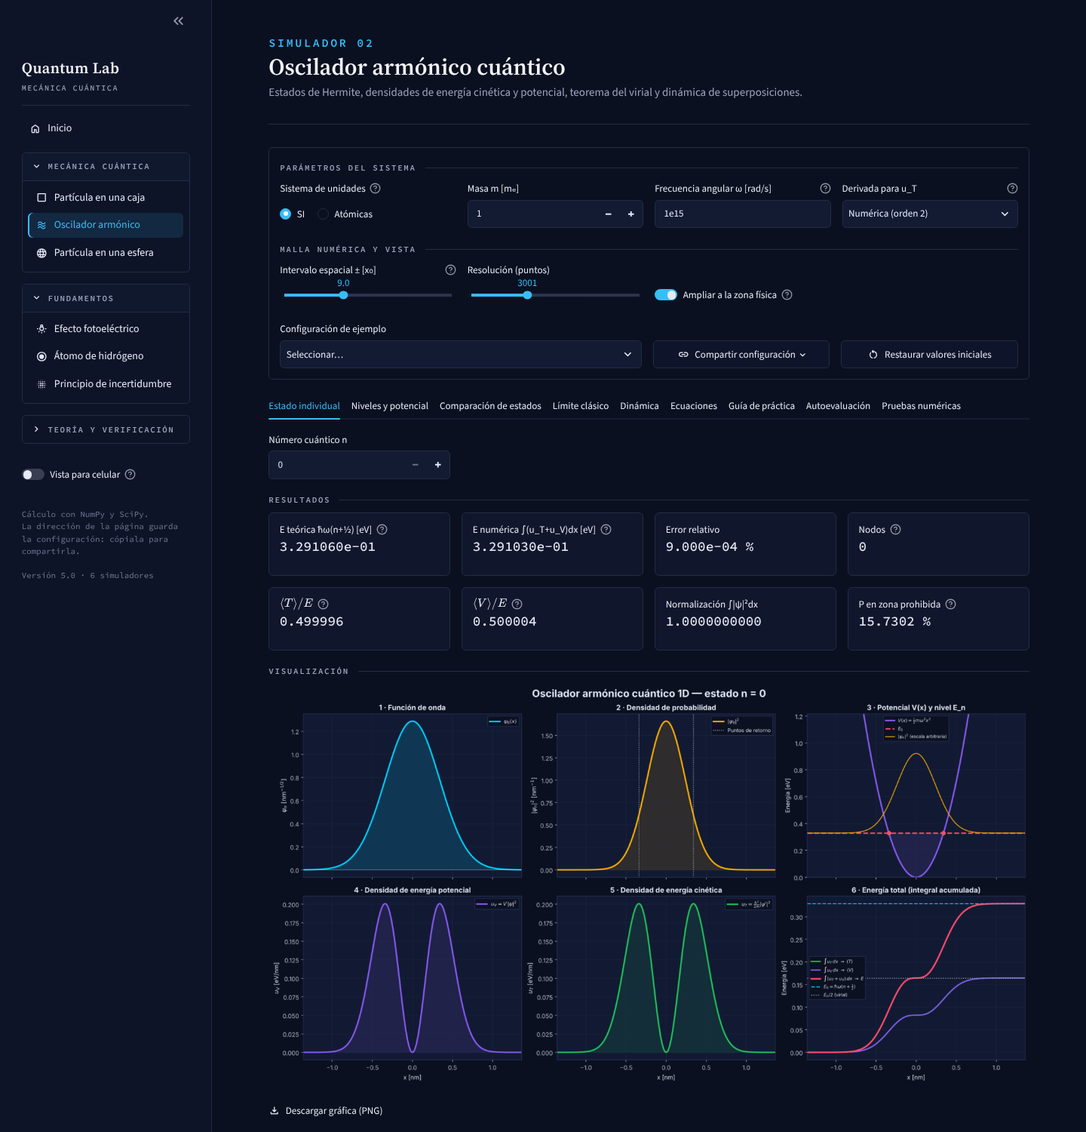
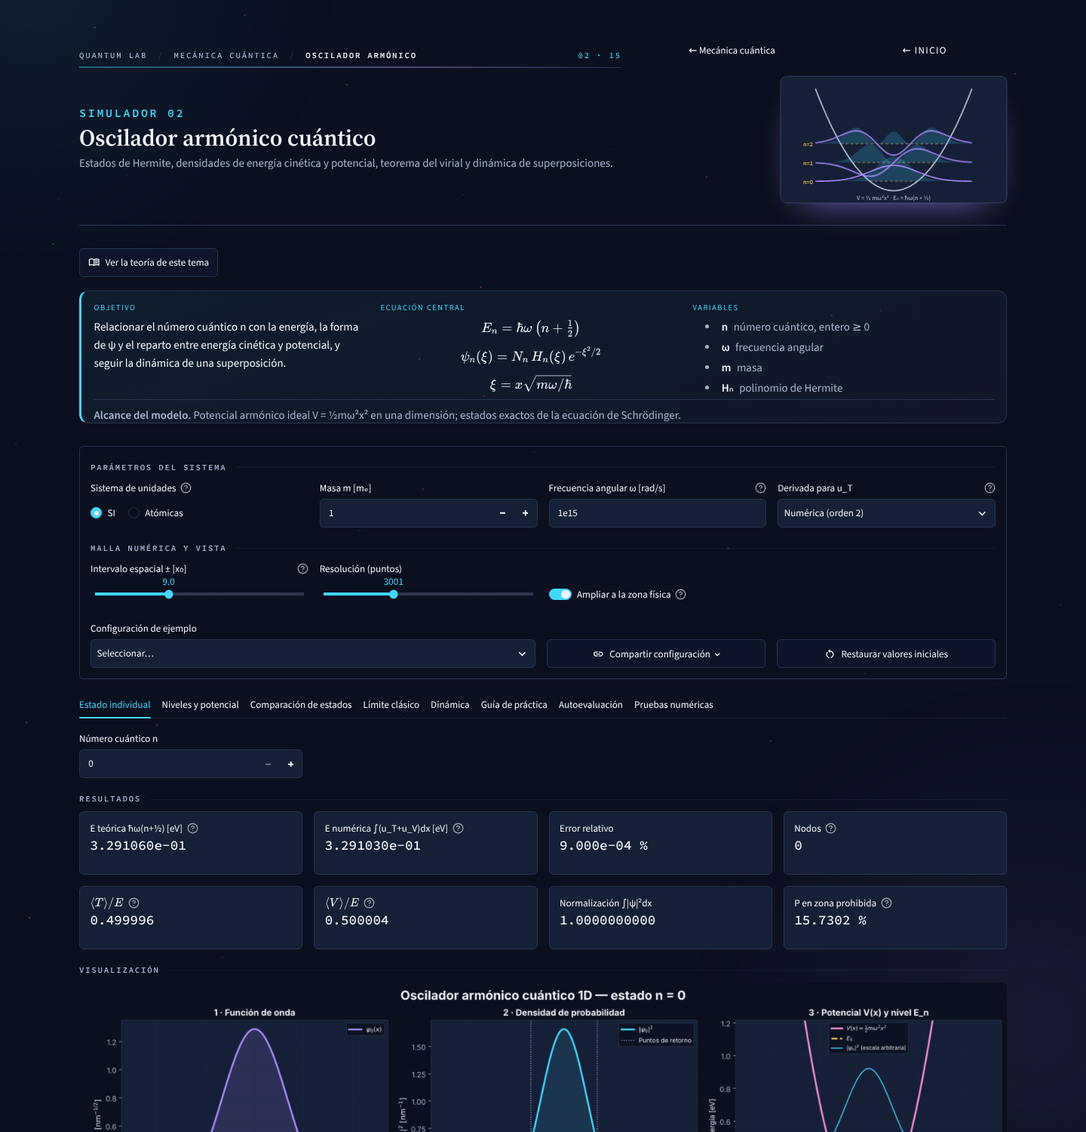
Actualizar README, capturas, versión 6.0 y celda de Colab de la superposición
Claude-Session: https://claude.ai/code/session_01HhUTuENr9p5TmrEmXaoA3r

diff --git a/colab/celda_superposicion_oscilador.py b/colab/celda_superposicion_oscilador.py
@@ -1,0 +1,160 @@
+#@title Oscilador armónico 1D: animación de la superposición de estados vibracionales { display-mode: "form" }
+# =====================================================================================
+#  Ψ(x,t) = Σₙ cₙ ψₙ(x) e^{−iEₙt/ħ},     Eₙ = ħω(n + ½),     V(x) = ½ m ω² x²
+#
+#  Se trabaja con ξ = x/x₀ (x₀ = √(ħ/mω)) y τ = ωt:   Ψ(ξ,τ) = Σ cₙ φₙ(ξ) e^{−i(n+½)τ}
+#  y al final se dibuja en unidades reales (nm, fs) con la masa y la frecuencia indicadas.
+#  Esta celda es independiente: solo necesita NumPy y Matplotlib (ya instalados en Colab).
+# =====================================================================================
+import math
+import numpy as np
+import matplotlib.pyplot as plt
+from matplotlib import animation
+from matplotlib.colors import Normalize
+from IPython.display import HTML, display
+
+# ------------------------------- 1) DATOS DEL USUARIO --------------------------------
+estados    = [0, 1, 2]       # cuántos y cuáles estados se superponen (números cuánticos n = 0, 1, 2, …)
+amplitudes = [1.0, 1.0, 1.0]  # amplitud Aₙ de cada estado (cₙ = Aₙ·e^{iφₙ}); puede ser cualquier valor ≥ 0
+fases      = [0.0, 0.0, 0.0]  # fase φₙ de cada estado, en radianes
+normalizar = True             # True: divide entre √Σ|cₙ|² para que la probabilidad total sea 1
+
+masa_me = 1.0                 # masa en unidades de la masa del electrón (protón ≈ 1836.15)
+omega   = 1.0e15              # frecuencia angular ω [rad/s]
+periodos   = 1                # τ = ωt recorre de 0 a 2π·periodos
+n_cuadros  = 120              # cuadros de la animación
+guardar_gif = False           # True: además guarda 'oscilador_superposicion.gif'
+
+# --------------------------------- 2) FÍSICA -----------------------------------------
+HBAR, M_E = 1.054571817e-34, 9.1093837015e-31     # J·s, kg
+x0 = math.sqrt(HBAR / (masa_me * M_E * omega))    # longitud característica [m]
+
+
+def fi(n_max, xi):
+    """φ₀ … φ_{n_max}(ξ), ortonormales respecto de ξ (recurrencia estable, sin polinomios de Hermite explícitos)."""
+    phi = np.zeros((n_max + 1, xi.size))
+    phi[0] = np.pi ** -0.25 * np.exp(-xi ** 2 / 2)
+    if n_max >= 1:
+        phi[1] = math.sqrt(2.0) * xi * phi[0]
+    for k in range(1, n_max):
+        phi[k + 1] = math.sqrt(2.0 / (k + 1)) * xi * phi[k] - math.sqrt(k / (k + 1)) * phi[k - 1]
+    return phi
+
+
+def validar(estados, amplitudes, fases):
+    if not (len(estados) == len(amplitudes) == len(fases) and len(estados) >= 1):
+        raise ValueError("«estados», «amplitudes» y «fases» deben tener la misma longitud (al menos 1).")
+    if any(int(n) != n or n < 0 for n in estados):
+        raise ValueError("Los números cuánticos n deben ser enteros ≥ 0.")
+    if len(set(estados)) != len(estados):
+        raise ValueError("Hay un estado repetido: cada n debe aparecer una sola vez (suma sus coeficientes).")
+    if any(a < 0 for a in amplitudes):
+        raise ValueError("Las amplitudes deben ser ≥ 0 (usa la fase π para un signo negativo).")
+    if not np.any(np.asarray(amplitudes) > 0):
+        raise ValueError("Al menos una amplitud debe ser distinta de cero.")
+    if masa_me <= 0 or omega <= 0:
+        raise ValueError("La masa y ω deben ser positivas.")
+
+
+validar(estados, amplitudes, fases)
+n_arr = np.array(estados, dtype=int)
+c = np.array(amplitudes, dtype=float) * np.exp(1j * np.array(fases, dtype=float))
+if normalizar:
+    c = c / np.sqrt(np.sum(np.abs(c) ** 2))
+n_max = int(n_arr.max())
+
+# Malla en ξ: hasta el punto de retorno del estado más alto (√(2n+1)) más una cola de 5 unidades
+xi_max = math.sqrt(2 * n_max + 1) + 5.0
+xi = np.linspace(-xi_max, xi_max, 1201)
+dxi = xi[1] - xi[0]
+phi = fi(n_max, xi)[n_arr]                                   # (nº de estados, nº de puntos)
+tau = np.linspace(0.0, 2 * np.pi * periodos, n_cuadros, endpoint=False)
+fase_t = np.exp(-1j * np.outer(tau, n_arr + 0.5))             # (cuadros, estados)
+psi = (fase_t * c) @ phi                                       # Ψ(ξ, τ) = Σ cₙ φₙ(ξ) e^{−i(n+½)τ}   [en unidades de x₀^{-1/2}]
+rho = np.abs(psi) ** 2
+xi_medio = (rho * xi).sum(axis=1) * dxi / (rho.sum(axis=1) * dxi)
+
+# Comprobaciones numéricas
+norma = rho.sum(axis=1) * dxi
+E_medio = float(np.sum(np.abs(c) ** 2 * (n_arr + 0.5)))      # ⟨E⟩/ħω
+dE = float(np.sqrt(np.sum(np.abs(c) ** 2 * (n_arr + 0.5) ** 2) - E_medio ** 2))
+print(f"Σ|cₙ|² = {np.sum(np.abs(c) ** 2):.6f}     ∫|Ψ|²dx (mín, máx sobre τ) = {norma.min():.6f}, {norma.max():.6f}")
+print(f"⟨E⟩ = {E_medio:.4f} ħω = {E_medio * HBAR * omega / 1.602176634e-19:.4f} eV      ΔE = {dE:.4f} ħω")
+dif = np.diff(np.sort(n_arr))
+if len(n_arr) > 1:
+    print(f"Periodo de la densidad: T = 2π/ω = {2 * np.pi / omega * 1e15:.4g} fs "
+          "(todas las diferencias de energía son múltiplos enteros de ħω).")
+else:
+    print("Un solo estado: la densidad |Ψ|² no cambia con el tiempo (estado estacionario).")
+
+# Unidades de dibujo: x en nm, t en fs, |Ψ|² en nm⁻¹
+X = xi * x0 * 1e9
+T = tau / omega * 1e15
+RHO = rho / (x0 * 1e9)
+RE, IM = psi.real / math.sqrt(x0 * 1e9), psi.imag / math.sqrt(x0 * 1e9)
+XM = xi_medio * x0 * 1e9
+A_ret = math.sqrt(2 * n_max + 1) * x0 * 1e9                  # punto de retorno clásico del estado más alto
+
+plt.rcParams.update({"font.size": 11, "axes.titleweight": "bold"})
+
+# ------------------- 3) SUPERFICIE 3D: |Ψ(x,t)|² (como la figura del proyecto) --------
+fig3d = plt.figure(figsize=(10.5, 6.6))
+ax3 = fig3d.add_subplot(111, projection="3d")
+XX, TT = np.meshgrid(X, T)
+sup = ax3.plot_surface(XX, TT, RHO, cmap="plasma", linewidth=0, antialiased=True, rstride=2, cstride=4)
+ax3.set_xlabel("Posición x [nm]")
+ax3.set_ylabel("Tiempo t [fs]")
+ax3.set_zlabel("Densidad de probabilidad |Ψ(x,t)|² [nm⁻¹]", labelpad=8)
+ax3.set_title("Superposición de estados n = " + ", ".join(map(str, estados)))
+fig3d.colorbar(sup, ax=ax3, shrink=0.6, pad=0.12, label="Probabilidad")
+ax3.view_init(elev=35, azim=-125)
+plt.show()
+
+# ------------------------------- 4) ANIMACIÓN ----------------------------------------
+fig, (a1, a2, a3) = plt.subplots(3, 1, figsize=(9.5, 9), gridspec_kw={"height_ratios": [1.5, 1.2, 0.9]})
+lim = float(X.max())
+ymax = float(RHO.max()) * 1.12
+a1.set_xlim(-lim, lim); a1.set_ylim(0, ymax)
+a1.axvline(-A_ret, color="gray", ls=":", lw=1); a1.axvline(A_ret, color="gray", ls=":", lw=1, label="puntos de retorno (n máx)")
+rho_linea, = a1.plot([], [], color="#1f77b4", lw=2.2, label=r"$|\Psi(x,t)|^2$")
+relleno = [a1.fill_between(X, 0, 0)]
+marca, = a1.plot([], [], "o", color="crimson", ms=8, label=r"$\langle x\rangle$")
+a1.set_xlabel("x [nm]"); a1.set_ylabel(r"$|\Psi|^2$ [nm$^{-1}$]")
+a1.set_title("Densidad de probabilidad"); a1.legend(loc="upper right", fontsize=9); a1.grid(alpha=0.3)
+
+cmax = float(max(np.abs(RE).max(), np.abs(IM).max())) * 1.1
+a2.set_xlim(-lim, lim); a2.set_ylim(-cmax, cmax)
+re_linea, = a2.plot([], [], color="#2ca02c", lw=1.8, label=r"Re $\Psi$")
+im_linea, = a2.plot([], [], color="#ff7f0e", lw=1.8, label=r"Im $\Psi$")
+a2.axhline(0, color="gray", lw=0.8)
+a2.set_xlabel("x [nm]"); a2.set_ylabel(r"$\Psi$ [nm$^{-1/2}$]")
+a2.set_title("Función de onda compleja"); a2.legend(loc="upper right", fontsize=9); a2.grid(alpha=0.3)
+
+a3.set_xlim(T.min(), T.max() if len(T) > 1 else T.min() + 1); a3.set_ylim(-1.1 * max(abs(XM).max(), 1e-12), 1.1 * max(abs(XM).max(), 1e-12))
+a3.plot(T, XM, color="crimson", lw=1.2, alpha=0.35)
+cursor, = a3.plot([], [], "o", color="crimson", ms=7)
+a3.axhline(0, color="gray", lw=0.8)
+a3.set_xlabel("t [fs]"); a3.set_ylabel(r"$\langle x\rangle$ [nm]")
+a3.set_title("Posición media"); a3.grid(alpha=0.3)
+titulo = fig.suptitle("", fontsize=13, fontweight="bold")
+fig.tight_layout(rect=(0, 0, 1, 0.96))
+
+
+def cuadro(i):
+    rho_linea.set_data(X, RHO[i])
+    relleno[0].remove()
+    relleno[0] = a1.fill_between(X, RHO[i], color="#1f77b4", alpha=0.18)
+    marca.set_data([XM[i]], [0])
+    re_linea.set_data(X, RE[i]); im_linea.set_data(X, IM[i])
+    cursor.set_data([T[i]], [XM[i]])
+    titulo.set_text(f"t = {T[i]:.3f} fs     (τ = ωt = {tau[i]:.2f} rad)")
+    return rho_linea, marca, re_linea, im_linea, cursor, titulo
+
+
+anim = animation.FuncAnimation(fig, cuadro, frames=len(T), interval=60, blit=False)
+plt.close(fig)
+plt.rcParams["animation.embed_limit"] = 80          # MB que puede pesar la animación incrustada
+display(HTML(anim.to_jshtml()))
+if guardar_gif:
+    anim.save("oscilador_superposicion.gif", writer="pillow", fps=20)
+    print("GIF guardado: oscilador_superposicion.gif (panel de archivos de Colab, a la izquierda).")

diff --git a/quantum_lab_comun.py b/quantum_lab_comun.py
@@ -348,7 +348,7 @@ def agregar_animacion(figura, nombres_cuadros: list[str], etiquetas: list[str],
 # Tipografía: se usan las tres familias que Streamlit ya trae incluidas
 # (funcionan sin Internet): «Source Serif» para títulos, «Source Sans» para
 # el texto y «Source Code Pro» para cifras y etiquetas técnicas.
-VERSION = "5.0"           # se muestra en la barra lateral: sirve para comprobar qué versión está publicada
+VERSION = "6.0"           # se muestra en el pie de cada página: sirve para comprobar qué versión está publicada
 
 FUENTE_TITULOS = '"Source Serif", "Source Serif Pro", "QL Simbolos", Georgia, "Times New Roman", serif'
 FUENTE_TEXTO = '"Source Sans", "Source Sans Pro", "QL Simbolos", "Segoe UI", system-ui, sans-serif'

diff --git a/README.md b/README.md
@@ -2,7 +2,7 @@
 
 [![Pruebas](https://github.com/xXITACHIXx/quantum-lab/actions/workflows/tests.yml/badge.svg)](https://github.com/xXITACHIXx/quantum-lab/actions/workflows/tests.yml)
 ![Python](https://img.shields.io/badge/python-3.10%20a%203.13-blue)
-![Versión](https://img.shields.io/badge/versi%C3%B3n-5.0-informational)
+![Versión](https://img.shields.io/badge/versi%C3%B3n-6.0-informational)
 
 Seis simuladores (más una página de verificación) con una identidad visual común (tema oscuro, tipografía científica sin emojis), todo en español.
 Cada simulador incluye resultados numéricos, visualización, interpretación, ecuaciones o **teoría**, **guía de
@@ -10,9 +10,15 @@ práctica**, **autoevaluación** y **pruebas numéricas**. El cálculo se hace c
 
 | Archivo | Contenido |
 |---|---|
-| `quantum_lab.py` | Menú principal (portada, acceso a los seis simuladores y al Centro de teoría, pruebas globales) |
+| `quantum_lab.py` | Aplicación principal: enruta las páginas (portada, sub-portadas por capítulo, simuladores, estudio, verificación), pie de página y pruebas globales. **No hay barra lateral** |
+| `quantum_lab_portada.py` | Portada y sub-portadas: lista `MODULOS` (número, categoría, título, descripción y lema de cada destino), `CAPITULOS`, menú de barras angulares y escenario con la ilustración de cada elemento |
+| `quantum_lab_escena.py` | Movimiento y escena: CSS de animaciones, JavaScript opcional (partículas, emergencia desde abajo, refresco de gráficas), fondo del átomo |
+| `quantum_lab_arte.py` | Ilustraciones **conceptuales** en SVG (una por destino, el átomo de la portada y el observatorio); sin imágenes externas |
+| `quantum_lab_tema.py` | Paleta única (colores, series, contraste) de la que salen el CSS, Matplotlib, Plotly y las ilustraciones |
+| `fuente_simbolos.css` | Fuente de símbolos (subíndices, superíndices, operadores) incrustada y **pregenerada**: evita cuadros vacíos en celulares |
 | `teoria/` | **Centro de teoría**: `__init__.py` (índice por unidades y temas) y un archivo por tema con su teoría, calculadoras y autoevaluación (`postulados.py`, `bohr.py`…); `_util.py` reúne las funciones comunes de figuras |
 | `talleres/` | **Talleres de repaso**: `__init__.py` (índice, página y pruebas), `_calificar.py` (lectura de números y tolerancias), `_modelo.py` (preguntas y calificación por partes), `_fisica.py` (cálculos verificados) y un archivo por taller (`t1_espectros.py`…) |
+| `ruta/`, `formulario/`, `examen/`, `repaso/` | Ruta de estudio, formulario de constantes y fórmulas, modo examen y repaso personalizado (cada uno con su `__init__.py` y módulos de apoyo) |
 | `ejercicios/` | **Ejercicios de práctica**: `__init__.py` (página, filtros y pruebas), `_modelo.py` (ejercicio, fuentes y temas), `_progreso.py`, `_figuras.py`, `_calidad.py` y los ejercicios por fuente: `clase_s1_s5.py`, `clase_s6_s13.py` (diapositivas), `libro.py` y `cuaderno.py` |
 | `particula_caja.py` | 01 · Partícula en una caja 1D: ψₙ, Eₙ, De Broglie, nodos, **superposición e interferencia** |
 | `oscilador_armonico.py` | 02 · Oscilador armónico: Hermite, densidades de energía, virial, **límite clásico**, dinámica |
@@ -24,9 +30,11 @@ práctica**, **autoevaluación** y **pruebas numéricas**. El cálculo se hace c
 | `verificacion.py` | Página «Verificación»: compara cada simulador con una referencia independiente (diagonalización del hamiltoniano, diferencias finitas, integrales, valores tabulados) |
 | `test_quantum_lab.py` | Pruebas numéricas y de verificación con `pytest` |
 | `test_interfaz.py` | Pruebas de interfaz (cada página se ejecuta con `AppTest` sin excepciones) |
+| `test_escena.py`, `test_arte.py`, `test_tema.py`, `test_movil.py`, `test_caja_diseno.py` | Pruebas de la portada y la navegación, las ilustraciones, la paleta y el contraste, el celular y la accesibilidad (texto alternativo, fuente de símbolos, fondo estable) y la figura y la superposición de la caja |
+| `test_ruta.py`, `test_formulario.py`, `test_talleres.py`, `test_ejercicios*.py`, `test_examen.py`, `test_repaso.py`, `test_teoria.py` | Pruebas de las secciones de estudio |
 | `requirements.txt` | Dependencias con límites de versión |
 | `requirements-lock.txt` | Versiones exactas con las que se probó el proyecto |
-| `colab/` | Los tres cuadernos de Google Colab (caja, oscilador, esfera): implementación independiente de la misma física |
+| `colab/` | Los tres cuadernos de Google Colab (caja, oscilador, esfera): implementación independiente de la misma física, y `celda_superposicion_oscilador.py`, una celda suelta con la animación de la superposición de estados del oscilador |
 | `docs/img/` | Capturas usadas en este README |
 | `.github/workflows/tests.yml` | Integración continua: ejecuta `pytest` en cada subida y una vez por semana |
 | `.github/dependabot.yml` | Avisos semanales de actualización de dependencias |
@@ -36,6 +44,8 @@ Los simuladores 04 y 05 proceden de los cuadernos «Efecto_Fotoelectrico_Simulac
 «Modelo_Bohr_Simulacion.ipynb», adaptados a la interfaz interactiva y ampliados.
 
 ## Vista previa
+
+Capturas de la interfaz actual (escritorio, 1440 px).
 
 | | |
 |---|---|
@@ -99,7 +109,7 @@ actualizar la web basta con subir los archivos modificados: la aplicación se re
 ## 4. Pruebas y mantenimiento
 
 ```powershell
-python -m pytest -q          # pruebas numéricas, verificación y de interfaz (unos 50 s)
+python -m pytest -q          # 630 pruebas: numéricas, verificación, interfaz y accesibilidad (unos 3 minutos)
 python -m pytest -q test_quantum_lab.py     # solo las numéricas (unos 8 s)
 python quantum_lab.py        # lista todas las comprobaciones y su resultado
 python modelo_bohr.py        # pruebas de un solo simulador
@@ -117,11 +127,11 @@ actualizaciones de dependencias.
 futura no rompa la aplicación sin aviso; las versiones exactas probadas están en `requirements-lock.txt`
 (`python -m pip install -r requirements-lock.txt` reproduce ese entorno). Al actualizar la versión publicada en
 Streamlit Cloud hay que pulsar **«Reboot app»** (la nube conserva en memoria los módulos ya importados) y comprobar en
-la barra lateral que aparece el número de versión esperado.
+el pie de la página que aparece el número de versión esperado (ahora 6.0).
 
 ## 5. Uso
 
-* **Centro de teoría** (inicio → capítulo «Teoría y verificación»): toda la teoría del curso en un solo lugar, organizada
+* **Centro de teoría** (inicio → capítulo «Teoría y repaso»): toda la teoría del curso en un solo lugar, organizada
   por unidades según las diapositivas. Los temas sin material aún aparecen como «en preparación». Cada tema
   tiene pestañas de *Teoría* (con calculadoras y gráficas interactivas), *Simulación y práctica* (cuando hay simulador)
   y *Autoevaluación*. Desde cada simulador, «Ver la teoría de este tema» abre su explicación. Un tema se enlaza con
@@ -160,11 +170,11 @@ la barra lateral que aparece el número de versión esperado.
   están en `quantum_lab_portada.py` (lista `MODULOS`: número, categoría, título y descripción de cada módulo).
 * **Escena y movimiento** (`quantum_lab_escena.py`): (1) *navegación animada*: cada página se dibuja en `st.container(key="ql_escena_<página>")`;
   como la clave solo cambia al navegar, la entrada escalonada, el barrido de la barra de ubicación y el trazado de la ilustración se reproducen
-  al cambiar de página y no al mover un control; la barra de ubicación indica categoría, página y número, con regreso al «Observatorio».
+  al cambiar de página y no al mover un control; la barra de ubicación indica categoría, página y número, con regreso al capítulo y al inicio.
   (2) *Destinos interactivos*: cada tarjeta de la portada es un contenedor `ql_dest_<página>` con un `st.button` real extendido sobre toda
   la tarjeta (clic, toque y teclado); al pasar el cursor se eleva, se enciende la línea de energía, la luz sigue al puntero y la ilustración se
-  vuelve a trazar. (3) *Observatorio*: portada por capas (luz ambiental, plano en perspectiva, partículas en Canvas con paralaje y nube 2p con
-  órbitas). Los indicadores de los simuladores destellan cuando su valor cambia. El JavaScript es una mejora progresiva (`st.html` con
+  vuelve a trazar. (3) *Portada*: átomo a pantalla completa (ver el apartado 10); el «observatorio» por capas de la versión anterior se conserva en el código
+  (`observatorio_html`) pero ya no se muestra. Los indicadores de los simuladores destellan cuando su valor cambia. El JavaScript es una mejora progresiva (`st.html` con
   `unsafe_allow_javascript`, detectado en tiempo de ejecución); sin él quedan todas las animaciones CSS. Con `prefers-reduced-motion` todo se
   detiene, y en móviles se suprimen el plano y las partículas.
 * **Ruta de estudio** (inicio → capítulo «Teoría y repaso»): recorrido por dominio de cada tema, sin depender de fechas. Los 13 temas siguen un orden de
@@ -198,10 +208,11 @@ la barra lateral que aparece el número de versión esperado.
   (estado), 03 (|Y|² con x, y, z sobre la esfera), 04 (curva I–V) y 06 (|ψ(x)|² y |φ(p)|²) ofrecen un CSV con los
   números que dibujan la curva, en unidades SI y con el nombre y la unidad en la cabecera de cada columna. Los
   números complejos se separan en parte real e imaginaria.
-* **Superposición en la caja:** la tabla admite hasta 10 estados; la **«Lista rápida»** admite hasta 200 estados
-  con el formato `n:A` o `n:A:φ` separados por «;» (por ejemplo `1:1; 2:0.5; 7:-0.3; 12:0.2:1.57`).
-* **Vista para celular:** se activa sola al abrir la página desde un teléfono (también hay un interruptor en la
-  barra lateral). Muestra 2 indicadores por fila y apila los paneles de las gráficas en una columna.
+* **Superposición en la caja:** el usuario indica cuántos estados superponer (hasta 20), cuáles (número cuántico n de cada uno) y sus coeficientes,
+  escritos con el valor exacto: amplitud y fase, o parte real e imaginaria (la amplitud puede ser mayor que 1 si no se normaliza). La
+  **«Lista rápida»** admite hasta 200 estados con el formato `n:A` o `n:A:φ` separados por «;» (por ejemplo `1:1; 2:0.5; 7:-0.3; 12:0.2:1.57`).
+* **Vista para celular:** se activa sola al abrir la página desde un teléfono (también hay un interruptor en el
+  pie de la página). Muestra 2 indicadores por fila y apila los paneles de las gráficas en una columna.
 * **Guía de práctica:** experimentos con objetivo, procedimiento, una pregunta para predecir, un botón que carga la
   configuración y el resultado esperado oculto. El cuadro de texto sirve para anotar predicciones y medidas.
 * **Autoevaluación:** preguntas de opción múltiple con corrección, puntuación y explicación de cada respuesta.
@@ -212,7 +223,7 @@ la barra lateral que aparece el número de versión esperado.
 
 ## 6. Verificación y contraste con Google Colab
 
-La página **Verificación** (menú «Teoría y verificación») compara cada resultado con **otra forma de obtenerlo**, no
+La página **Verificación** (inicio → capítulo «Verificación») compara cada resultado con **otra forma de obtenerlo**, no
 con la misma fórmula:
 
 | Sistema | Se compara con |
@@ -293,12 +304,29 @@ el orbital **complejo** sí (L_z = mħ).
 | Gráficos lentos | Reduce la resolución angular (esfera), los puntos (caja/oscilador) o el número de medidas (nube 3D) |
 | En Streamlit Cloud la app no arranca y el registro termina en «Welcome to Streamlit!» | Comprueba que `.streamlit/config.toml` tenga `headless = true` (con `false` se queda esperando un correo por teclado) |
 | Se ve el diseño antiguo o un aviso sobre `theme` | `python -m pip install -U -r requirements.txt` (Streamlit 1.65 o superior) y reinicia |
-| Símbolos como ₙ o ⟨⟩ salen como recuadros | La app incrusta una fuente de símbolos; si persiste, recarga la página sin caché (`Ctrl + F5`) |
+| Símbolos como ₙ o ⟨⟩ salen como recuadros | La app incrusta una fuente de símbolos (`fuente_simbolos.css`); si persiste, recarga la página sin caché (`Ctrl + F5`). Para regenerar la fuente: `python -c "import quantum_lab_comun as q; open('fuente_simbolos.css','w',encoding='utf-8').write(q._generar_css_fuente())"` |
 
-## Menú cinético de la portada
+## 10. Portada, navegación y accesibilidad
 
-La portada muestra por defecto un menú de barras angulares (una por destino) y, a la derecha, el escenario con la ilustración conceptual del tema apuntado con el cursor o con el teclado. Cada barra es un `st.button` real (clic, toque y Enter). La vista «Tarjetas» conserva la rejilla anterior. En pantallas menores de 900 px solo queda la lista; con movimiento reducido no hay animaciones. Es una interpretación propia del lenguaje de menús cinéticos: no reproduce el diseño de ningún juego.
+**Navegación.** No hay barra lateral. La **portada** es un átomo ilustrado a pantalla completa (nubes de probabilidad muestreadas de densidades
+hidrogenoides 1s, 2p y 3d, núcleo y órbitas de referencia, con partículas que lo orbitan) y, encima, los **cuatro capítulos** como barras
+angulares en escalera: Mecánica cuántica, Fundamentos, Teoría y repaso y Verificación. Al apuntar una barra (cursor o teclado) aparece, abajo a la
+derecha, la ilustración conceptual del capítulo. Cada capítulo abre una **sub-portada** con sus temas en el mismo estilo, y cada tema, su página.
+La transición es una emergencia desde abajo (un horizonte que sube con el título y vuelve a bajar al cargar la página). En todas las páginas, la
+barra de ubicación de arriba tiene «← capítulo» y «← Inicio». Debajo de la primera pantalla de la portada están el siguiente paso sugerido, el
+interruptor «Ver también los destinos como tarjetas» y las ayudas. Cada barra es un `st.button` real (clic, toque y Enter), así que la navegación
+funciona también sin JavaScript. En pantallas menores de 900 px solo queda la lista sobre el fondo, y con movimiento reducido no hay animaciones.
 
-## Portada a pantalla completa
+**Gráficas.** Cada gráfica estática lleva **texto alternativo** construido solo con lo que la figura ya contiene (título y ejes de cada panel;
+`quantum_lab_comun.descripcion_figura`). Cuando el usuario mueve un control y la gráfica se reemplaza, hace un fundido breve; no se animan resultados
+ni se inventan datos.
 
-La primera pantalla es un átomo ilustrado a pantalla completa (nubes de probabilidad muestreadas de densidades hidrogenoides 1s, 2p y 3d, núcleo y órbitas de referencia, con partículas que lo orbitan) y, encima, el menú de destinos en barras angulares. Al apuntar una barra aparece, abajo a la derecha, la ilustración de ese tema. La portada muestra solo los cuatro capítulos, en escalera; cada uno abre una sub-portada con sus temas (misma animación de emergencia). No hay barra lateral: cada página tiene arriba su ubicación con regreso al capítulo y al inicio. Debajo de la primera pantalla están el siguiente paso sugerido, el interruptor «Ver también los destinos como tarjetas» y las ayudas. El átomo es una ilustración conceptual: las escalas de cada nube se ajustan para componer la imagen y no son un resultado del simulador.
+**Interpretación propia.** El menú cinético, el átomo y las ilustraciones son una interpretación propia del lenguaje de menús cinéticos y del diseño
+científico: no reproducen el diseño de ningún juego ni son resultados del simulador (las escalas de cada nube se ajustan para componer la imagen).
+
+**Accesibilidad verificada.** Con axe-core (WCAG 2 A y AA) la caja, el oscilador y el átomo de hidrógeno no tienen incumplimientos. Quedan avisos
+menores de «regiones» (landmarks) que dependen de la estructura de Streamlit. Probado en Chromium (escritorio y un Pixel 7 emulado); no se ha
+probado en Safari ni en un teléfono real.
+
+**Pendiente.** Teoría de hidrógeno, espín y aproximados; simulador de orbitales; rediseño interior de los simuladores con la plantilla de diez
+secciones (por ahora solo la ficha de entrada); las gráficas de Plotly se redibujan sin transición al mover un control.
